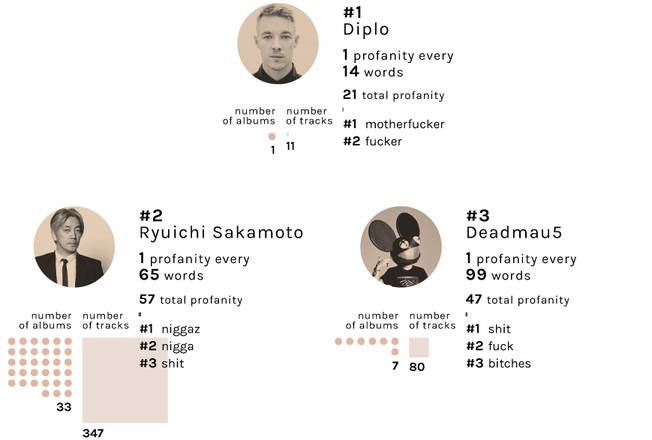
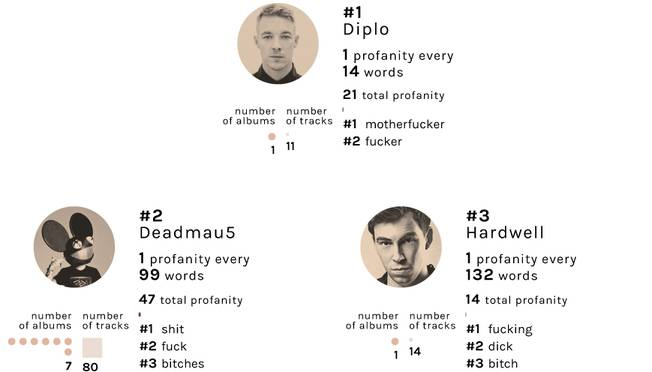
ryuichi error fixed

diff --git a/dist/index.html b/dist/index.html
@@ -19,7 +19,7 @@
             </div>
           </form>
         </div>
-      </div> --> </section> <section class=second_section data-name=overall> <p> Ever wondered which popular musician is the most potty-mouthed. Let's find out with an analysis of their lyrics from <a href="https://www.musixmatch.com/">Musixmatch</a>.</p> <img src=images/genres.cef05a40.jpg> <div class="figure-title text-uppercase"> <p>Genres studied</p> </div> <p>Eight popular genres were chosen for simplifying the analysis. For each genre, the most googled artists were selected and the lyrics of their studio-albums were considered for analysis. This leads to the following dataset.</p> <img src=images/overview.ac20272b.jpg> <div class="figure-title text-uppercase"> <p>Data overview</p> </div> <p>The lyrics in the dataset were scanned for the frequency of occurrence of each swear word from <a href=https://gist.github.com/MusixmatchHacks/3a4dd893be05093bf277>this</a> list. The creation of this list was explained <a href=http://lab.musixmatch.com/profanity_genres/#analysis>previously</a>.</p> <h1 class=heading> <span>Overall swear word usage</span> </h1> <p> An average of 0.66% of all words in lyrics of these artists are swear words. 1 in every 152 words is a swear word. This is higher than the percentage of profanities in everyday speech (which is around 0.5%)<sup><a href>1</a></sup>.</p> <img src=images/overview_results.617291b8.jpg> <div class="figure-title text-uppercase"> <p>Overall stats</p> </div> <p>This percentage is higher than the frequency of swear words in lyrics in general, as observed in our <a href="http://lab.musixmatch.com/profanity_genres/">previous study</a>. This is because of the higher concentration of hiphop artists in this dataset as compared to the other one.</p> </section> <section data-name=top_artists> <h1 class=heading> <span>Profanity usage by popular artists</span> </h1> <p>The usage of profanity in lyrics can be studied by total count and by frequency of swear words. Hip-Hop artists dominate both of these categories (d'oh). Overall, the most used swear words are nigga/s/z, shit, fuck and bitch.</p> <h1 class=heading> <span>Highest swear word count in lyrics</span> </h1> <p>Amongst the 361 artists studied, <b>Lil Wayne has the highest count of swear words in his lyrics</b>. He is followed closely by Tupac Shakur, Snoop Dogg, Busta Rhymes and T.I. This analysis is skewed by artists who have released more albums but the next metric tries to counter this.</p> <img src=images/overall_top_profane-total.50277213.jpg> <h1 class=heading> <span>Most frequent use of swear words</span> </h1> <p><b>Chief Keef uses swear words most frequently</b> amongst the 361 artists studied. There is 1 profanity for every 20 words in his lyrics. He is followed by Dr. Dre, N.W.A. (Dr. Dre is a member), ASAP Rocky and Young Thug. </p> <img src=images/overall_top_profane.91657c6c.jpg> <h1 class=heading> <span>Heavy Metal </span> </h1> <p>Heavy Metal is the second most profane genre. Korn, Slipknot and Children of Bodom use profanity most frequently.</p> <img src=images/top_profane_genres-metal.1c7b8ed6.jpg> <h1 class=heading> <span>Electronic music</span> </h1> <p>Despite being mostly instrumental Electronic artists seem to pack a lot of swear words in their music. Diplo leads the rankings here followed by Ryuichi Sakamoto and DeadMau5.</p> <img src=images/top_profane_genres-electronic.dea7cd0f.jpg> <h1 class=heading> <span>Rock</span> </h1> <p>There is a marked decrease in the profanity frequency of the rest of the genres as compared to Hip-Hop, Heavy Metal and Electronic. Amongst the rock artists, Green Day and Red Hot Chili Peppers use profanity most frequently. The most used swear words are different for both.</p> <img src=images/top_profane_genres-rock.5f9f7ced.jpg> <h1 class=heading> <span>Pop</span> </h1> <p>Pop lyrics are known for their wide appeal and use very few swear words. Amongst the most searched pop artists, Charli XCX uses most profanity followed by Tove Lo and Mark Ronson.</p> <img src=images/top_profane_genres-pop.cd899aa3.jpg> <h1 class=heading> <span>Indie Rock</span> </h1> <p>The Neighbourhood is band using most profanity amongst the Indie rockers. They are followed by Modest Mouse and Kings of Leon. The most commonly used swear word is shit followed by fuck.</p> <img src=images/top_profane_genres-indie.f4b69717.jpg> <h1 class=heading> <span>Folk</span> </h1> <p>There is a marked decrease in the usage of profanity in Folk and Country as compared to the above genres. Loudon Wainwright III and Joni Mitchell use swear words most frequently.</p> <img src=images/top_profane_genres-folk.b48c34fe.jpg> <h1 class=heading> <span>Country</span> </h1> <p>Country is the least profane genre amongst the 8 popular genres studied. Justin Moore uses swear words most frequently followed by Eric Church and Miranda Lambert. The most commonly used swear words are ass, coon, shit and bitch.</p> <img src=images/top_profane_genres-country.f3c435b8.jpg> <!-- <img src='images/genres-overall-total.jpg'>
+      </div> --> </section> <section class=second_section data-name=overall> <p> Ever wondered which popular musician is the most potty-mouthed. Let's find out with an analysis of their lyrics from <a href="https://www.musixmatch.com/">Musixmatch</a>.</p> <img src=images/genres.cef05a40.jpg> <div class="figure-title text-uppercase"> <p>Genres studied</p> </div> <p>Eight popular genres were chosen for simplifying the analysis. For each genre, the most googled artists were selected and the lyrics of their studio-albums were considered for analysis. This leads to the following dataset.</p> <img src=images/overview.ac20272b.jpg> <div class="figure-title text-uppercase"> <p>Data overview</p> </div> <p>The lyrics in the dataset were scanned for the frequency of occurrence of each swear word from <a href=https://gist.github.com/MusixmatchHacks/3a4dd893be05093bf277>this</a> list. The creation of this list was explained <a href=http://lab.musixmatch.com/profanity_genres/#analysis>previously</a>.</p> <h1 class=heading> <span>Overall swear word usage</span> </h1> <p> An average of 0.66% of all words in lyrics of these artists are swear words. 1 in every 152 words is a swear word. This is higher than the percentage of profanities in everyday speech (which is around 0.5%)<sup><a href>1</a></sup>.</p> <img src=images/overview_results.617291b8.jpg> <div class="figure-title text-uppercase"> <p>Overall stats</p> </div> <p>This percentage is higher than the frequency of swear words in lyrics in general, as observed in our <a href="http://lab.musixmatch.com/profanity_genres/">previous study</a>. This is because of the higher concentration of hiphop artists in this dataset as compared to the other one.</p> </section> <section data-name=top_artists> <h1 class=heading> <span>Profanity usage by popular artists</span> </h1> <p>The usage of profanity in lyrics can be studied by total count and by frequency of swear words. Hip-Hop artists dominate both of these categories (d'oh). Overall, the most used swear words are nigga/s/z, shit, fuck and bitch.</p> <h1 class=heading> <span>Highest swear word count in lyrics</span> </h1> <p>Amongst the 361 artists studied, <b>Lil Wayne has the highest count of swear words in his lyrics</b>. He is followed closely by Tupac Shakur, Snoop Dogg, Busta Rhymes and T.I. This analysis is skewed by artists who have released more albums but the next metric tries to counter this.</p> <img src=images/overall_top_profane-total.50277213.jpg> <h1 class=heading> <span>Most frequent use of swear words</span> </h1> <p><b>Chief Keef uses swear words most frequently</b> amongst the 361 artists studied. There is 1 profanity for every 20 words in his lyrics. He is followed by Dr. Dre, N.W.A. (Dr. Dre is a member), ASAP Rocky and Young Thug. </p> <img src=images/overall_top_profane.91657c6c.jpg> <h1 class=heading> <span>Heavy Metal </span> </h1> <p>Heavy Metal is the second most profane genre. Korn, Slipknot and Children of Bodom use profanity most frequently.</p> <img src=images/top_profane_genres-metal.1c7b8ed6.jpg> <h1 class=heading> <span>Electronic music</span> </h1> <p>Despite being mostly instrumental Electronic artists seem to pack a lot of swear words in their music. Diplo leads the rankings here followed by DeadMau5 and Hardwell. (There was an error earlier where Ryuichi Sakamoto was #2 in this list but it has been fixed now.)</p> <img src=images/top_profane_genres-electronic.d3e2c131.jpg> <h1 class=heading> <span>Rock</span> </h1> <p>There is a marked decrease in the profanity frequency of the rest of the genres as compared to Hip-Hop, Heavy Metal and Electronic. Amongst the rock artists, Green Day and Red Hot Chili Peppers use profanity most frequently. The most used swear words are different for both.</p> <img src=images/top_profane_genres-rock.5f9f7ced.jpg> <h1 class=heading> <span>Pop</span> </h1> <p>Pop lyrics are known for their wide appeal and use very few swear words. Amongst the most searched pop artists, Charli XCX uses most profanity followed by Tove Lo and Mark Ronson.</p> <img src=images/top_profane_genres-pop.cd899aa3.jpg> <h1 class=heading> <span>Indie Rock</span> </h1> <p>The Neighbourhood is band using most profanity amongst the Indie rockers. They are followed by Modest Mouse and Kings of Leon. The most commonly used swear word is shit followed by fuck.</p> <img src=images/top_profane_genres-indie.f4b69717.jpg> <h1 class=heading> <span>Folk</span> </h1> <p>There is a marked decrease in the usage of profanity in Folk and Country as compared to the above genres. Loudon Wainwright III and Joni Mitchell use swear words most frequently.</p> <img src=images/top_profane_genres-folk.b48c34fe.jpg> <h1 class=heading> <span>Country</span> </h1> <p>Country is the least profane genre amongst the 8 popular genres studied. Justin Moore uses swear words most frequently followed by Eric Church and Miranda Lambert. The most commonly used swear words are ass, coon, shit and bitch.</p> <img src=images/top_profane_genres-country.f3c435b8.jpg> <!-- <img src='images/genres-overall-total.jpg'>
       <div id='' class='figure-title text-uppercase'>
         <p>Genres studied</p>
       </div> --> <!-- <div id='' class='figure-title text-uppercase title-above'>

diff --git a/app/index.html b/app/index.html
@@ -148,7 +148,7 @@
       <h1 class='heading'>
         <span>Electronic music</span>
       </h1>
-      <p>Despite being mostly instrumental Electronic artists seem to pack a lot of swear words in their music. Diplo leads the rankings here followed by Ryuichi Sakamoto and DeadMau5.</p>
+      <p>Despite being mostly instrumental Electronic artists seem to pack a lot of swear words in their music. Diplo leads the rankings here followed by DeadMau5 and Hardwell. (There was an error earlier where Ryuichi Sakamoto  was #2 in this list but it has been fixed now.)</p>
       <img src='images/top_profane_genres-electronic.jpg'>
 
       <h1 class='heading'>
